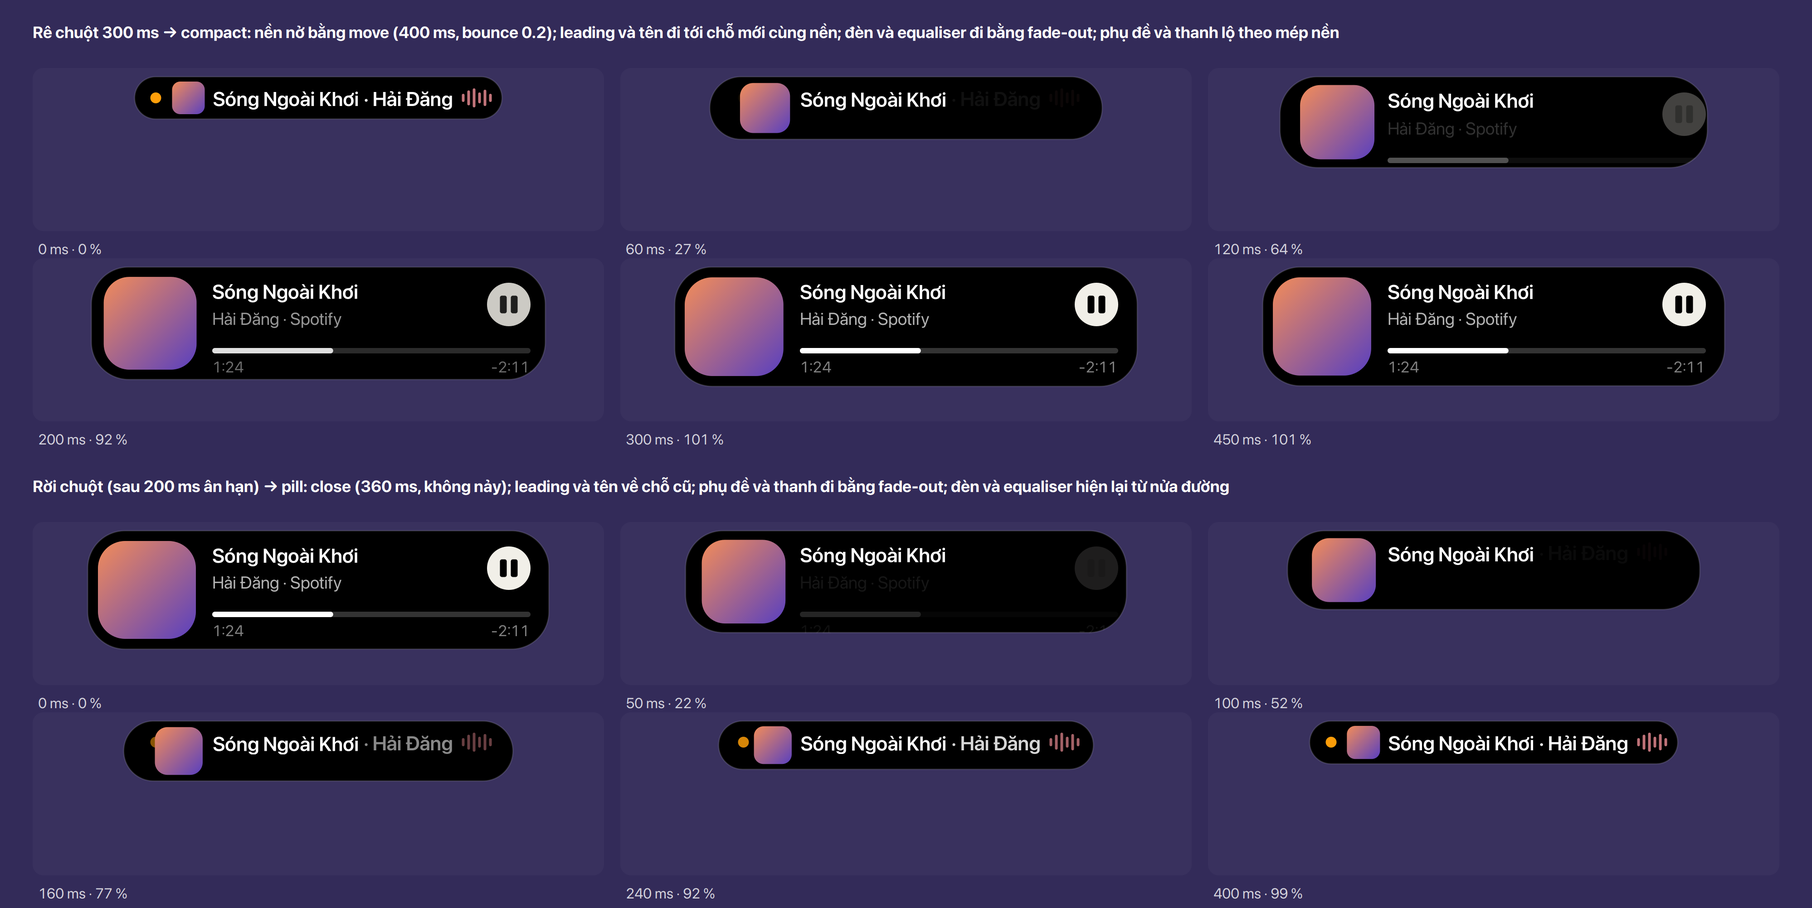
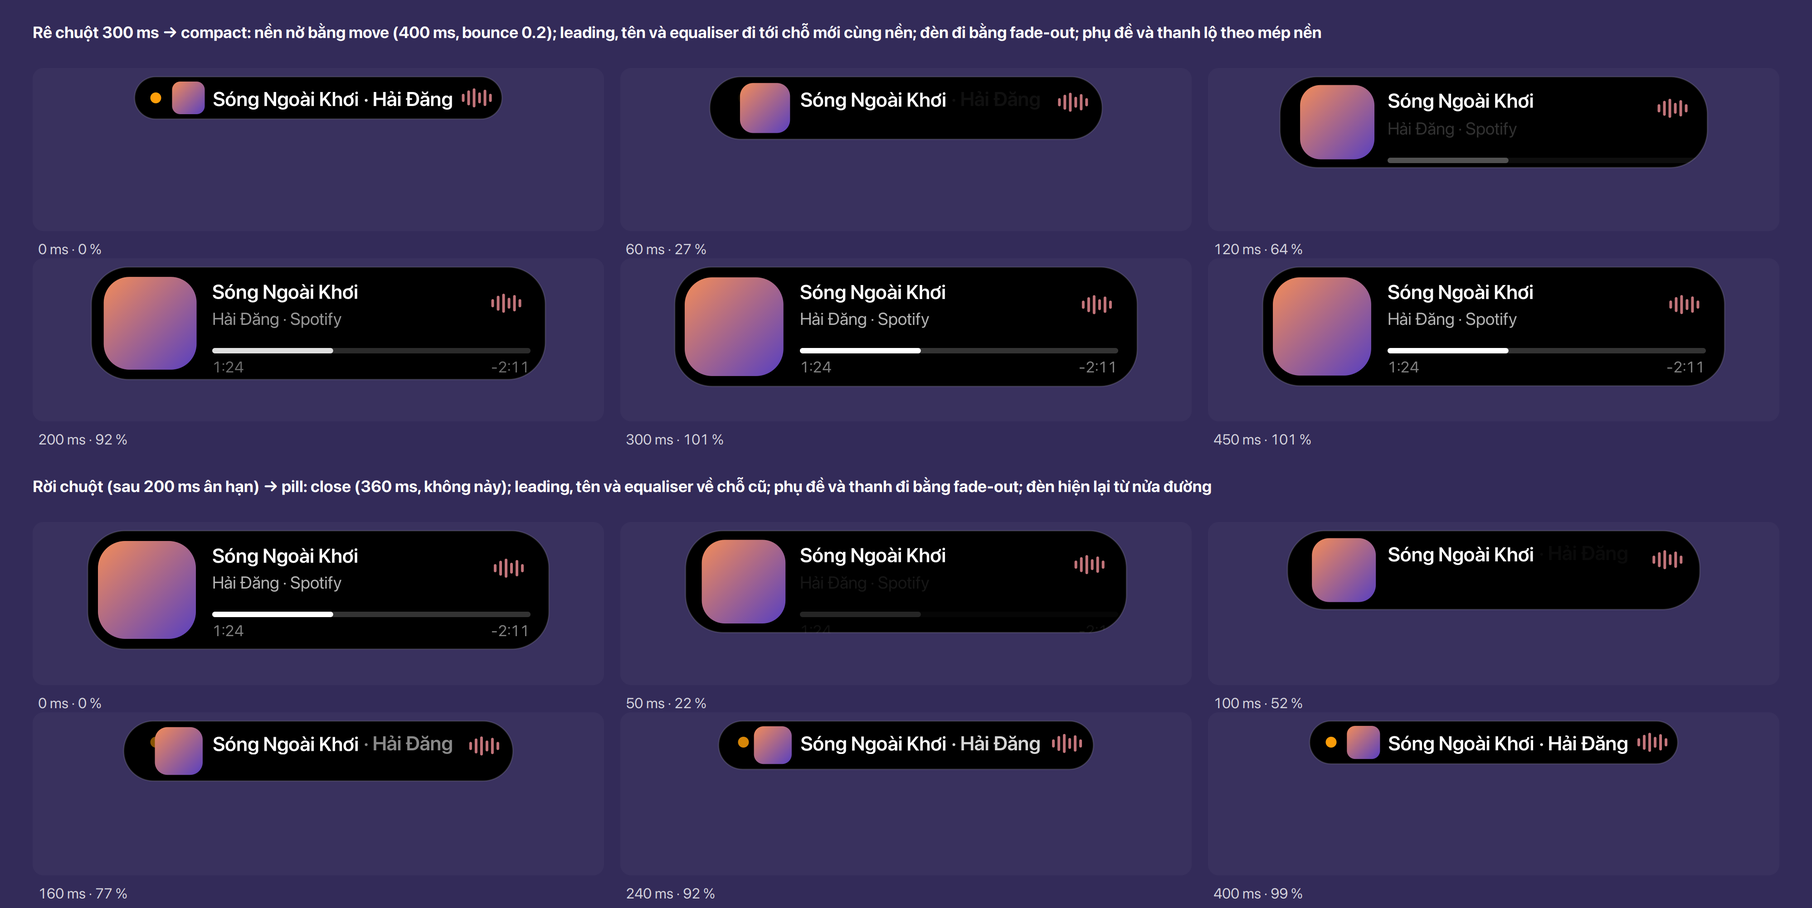
docs(design): redraw the images for the one-button music card
Home: a new "music" sheet (the card at rest, hovered, paused; music as a tile with
its corner equaliser), linked under "Thẻ nhạc và ô nhạc"; states, anatomy, fill,
lists and screen redrawn with the single slot. Motion: the equaliser travels with the
leading and the title (pill ↔ compact, pill ↔ Home card) instead of fading, pictures,
clips and text. Colours/contrast and compact/body: the music card and compact show the
equaliser where ⏮ ⏸ ⏭ / ⏸ were. render-design.sh draws the new sheet.

Refs #258

diff --git a/docs/design/home/render/home.js b/docs/design/home/render/home.js
@@ -1,17 +1,18 @@
 // Home (design/home, decided 2026-11-11, Ethan: H5): one main card over a row of tiles, laid out
 // again at every open and stack change so the tab is never empty and never scrolls.
 //   states  — four moments at 1920: music, Claude asks, nothing running, missed and a full row
+//   music   — the music card's one button (rest, hovered, paused) and the music tile's corner
 //   anatomy — 1920 with every measure, then 2560 and 3440
 //   fill    — how the row fills: activities, then the glance, then wide tiles
 //   lists   — the Missed tile and +K open a list in place of the card and the row
 //   screen  — screen recording in Home: the main card, or a tile
-// gjs -m home.js out.png <states|anatomy|fill|lists|screen>
+// gjs -m home.js out.png <states|music|anatomy|fill|lists|screen>
 import Pango from 'gi://Pango';
 import PangoCairo from 'gi://PangoCairo';
 import Rsvg from 'gi://Rsvg?version=2.0';
 import GLib from 'gi://GLib';
 import cairo from 'cairo';
-import {SCALE as SC, C, drawBu, icon as gicon, SAMPLE} from '../../render/lib.js';
+import {SCALE as SC, C, drawBu, drawEq, EQ, icon as gicon, SAMPLE} from '../../render/lib.js';
 const [out, MODE] = ARGV;
 // Buoy's colour icons (weather, daypart), the ones the extension ships
 const COLOUR = GLib.build_filenamev([GLib.path_get_dirname(GLib.filename_from_uri(import.meta.url)[0]),
@@ -109,6 +110,23 @@ function panel(x, y, EW, EH, title, {bellDot = false} = {}) {
 }
 
 // ---- the main card: fill-1, r 16; low under 160, tall from 160 ----------------------------------------
+// The music card's one button (design/home "Thẻ nhạc và ô nhạc", 2026-11-13): play / pause as the
+// compact's ⏸ slot — the equaliser at rest, the cream ⏸ (white under the pointer) when hovered;
+// paused, the bars low and ▶. SLOT: {hover, paused} for the drawings of that section.
+let SLOT = {hover: false, paused: false};
+const LOW = [4, 6, 7, 5, 6, 3];
+function slot(cx, cy) {
+    if (SLOT.hover) {
+        cr.newPath(); cr.setSourceRGB(1, 1, 1); cr.arc(cx, cy, 16, 0, 2 * Math.PI); cr.fill();
+        icon(SLOT.paused ? 'play-fill' : 'pause-fill', cx - 8, cy - 8, 16, C.BLACK);
+        return;
+    }
+    if (!SLOT.paused) {
+        drawEq(cr, cx - EQ.width / 2, cy);
+        return;
+    }
+    LOW.forEach((h, i) => fill([...EQ.rgb, 1], cx - EQ.width / 2 + i * (EQ.w + EQ.gap), cy - h / 2, 2, h, 1));
+}
 function heroMusic(x, y, w, h) {
     fill([1, 1, 1, C.FILL1], x, y, w, h, 16);
     const s = Math.min(h - 16, ART_MAX), ay = y + (h - s) / 2;
@@ -116,7 +134,7 @@ function heroMusic(x, y, w, h) {
     const tx = x + 8 + s + 12, x1 = x + w - 14;
     if (h < TALL) {   // low: the buttons top right, the bar at the foot of the text column
         text(SAMPLE.track, tx, y + 12, {wt: 600}); text(SAMPLE.sub, tx, y + 32, {sz: SUB, a: C.FG_MUTED});
-        [['forward-step-fill', 0], ['pause-fill', 1], ['backward-step-fill', 0]].forEach(([n, m], i) => round(x + w - 28 - i * 40, y + 28, n, m));
+        slot(x + w - 28, y + 28);
         bar(tx, y + h - 34, x1 - tx);
         text('1:24', tx, y + h - 26, {sz: SUB, a: C.FG_SUBTLE}); text('-2:11', x1, y + h - 26, {sz: SUB, a: C.FG_SUBTLE, right: true});
     } else {          // tall: the title larger, the bar, the buttons centred under it
@@ -125,7 +143,7 @@ function heroMusic(x, y, w, h) {
         bar(tx, by - 30, x1 - tx);
         text('1:24', tx, by - 22, {sz: SUB, a: C.FG_SUBTLE}); text('-2:11', x1, by - 22, {sz: SUB, a: C.FG_SUBTLE, right: true});
         const mid = (tx + x1) / 2;
-        [['backward-step-fill', 0], ['pause-fill', 1], ['forward-step-fill', 0]].forEach(([n, m], i) => round(mid + (i - 1) * 44, by + 20, n, m));
+        slot(mid, by + 20);
     }
 }
 function heroAsk(x, y, w, h) {
@@ -188,6 +206,9 @@ function small(x, y, w, key, more = 0) {
     const it = ITEMS[key], am = it.amber;
     fill(am ? [...C.AMBER, .16] : [1, 1, 1, C.FILL1], x, y, w, TILE_H, 16);
     lead(x, y, it.ic, am);
+    // the music tile: its equaliser in the top right corner, centred on the leading cell
+    if (key === 'music')
+        drawEq(cr, x + w - 12 - EQ.width, y + 22);
     text(it.val, x + 12, y + 40, {sz: BIG, wt: 600, rgb: am ? C.AMBER : W1});
     text(it.cap, x + 12, y + 68, {sz: SUB, a: C.FG_MUTED, maxW: w - 24});
     if (w >= WIDE) it.det.forEach((d, i) => d && text(d, x + w - 14, y + 44 + i * 18, {sz: SUB, a: C.FG_SUBTLE, right: true}));
@@ -291,6 +312,30 @@ if (MODE === 'lists') {
     note(x1, 50 + EH + 8, ['Hàng 32 một dòng; bấm hàng mở chỗ của nó (thông báo → tab Thông báo, mục Nhỡ khi vắng)', 'và hàng rời danh sách; × xoá hết; ‹ hoặc Esc về Home.']);
     note(x2, 50 + EH + 8, ['Cùng khuôn danh sách; bấm hàng mở tab của activity đó.', 'Dài hơn 5 hàng thì danh sách cuộn, chỉ ở đây.']);
     note(x0, 50 + EH + 8, ['Bị nhỡ đếm cả thông báo chưa xem và việc kết thúc lúc không thấy.']);
+    surf.writeToPNG(out);
+}
+
+// ---- the music card and the music tile -------------------------------------------------------------------
+if (MODE === 'music') {
+    // design/home "Thẻ nhạc và ô nhạc" (2026-11-13): the card's one button and the tile's corner
+    const EW = 560, EH = 280, GX = 40, GY = 84, W = 24 + 2 * EW + GX + 24, H = 50 + 2 * (EH + GY) - 20;
+    const surf = canvas(W, H), G = ['wx', 'up', 'bat'];
+    const cells = [
+        [24, 50, {hover: false, paused: false}, 'music', ['claude'], 'A · Thẻ nhạc lúc nghỉ: equaliser ở chỗ ⏸, không còn ⏮ ⏭',
+            ['Equaliser theo màu bìa, chạy khi Home đang mở; ⏮ ⏭ ở tab Media.', 'Bấm thẻ: tab Media, equaliser đi tới ô ↗ của tab.']],
+        [24 + EW + GX, 50, {hover: true, paused: false}, 'music', ['claude'], 'B · Rê chuột vào ô (hay focus bàn phím): nút ⏸',
+            ['Như các nút chính: kem, trắng dưới con trỏ. Đổi qua lại bằng mờ chéo tại chỗ.', 'Bấm: dừng; nút thành ▶ ngay, không nháy.']],
+        [24, 50 + EH + GY, {hover: false, paused: true}, 'music', ['claude'], 'C · Đang dừng: equaliser thấp; rê chuột thì ▶',
+            ['Các thanh hạ xuống trong 200 ms rồi đứng yên.', '']],
+        [24 + EW + GX, 50 + EH + GY, {hover: false, paused: false}, 'ask', ['music'], 'D · Nhạc là một ô: equaliser ở góc trên phải',
+            ['Khi thẻ chính là việc khác (ở đây: Claude hỏi), nhạc lùi xuống một ô.', 'Equaliser ở góc trên phải, cách mép 12; bấm ô: tab Media, equaliser đi tới ô ↗.']],
+    ];
+    for (const [x, y, st, hero, acts, title, lines] of cells) {
+        SLOT = st;
+        home(x, y, EW, EH, hero, acts, G, title);
+        note(x, y + EH + 8, lines.filter(Boolean));
+    }
+    SLOT = {hover: false, paused: false};
     surf.writeToPNG(out);
 }
 

diff --git a/docs/design/motion/render/motion.js b/docs/design/motion/render/motion.js
@@ -155,28 +155,30 @@ let TITLE_W = 0;
 // The compact is media 88 (design/compact): the art 72 at 8 with bo 20, the text 12 after it, the
 // round button 14 from the right edge, the bar and the times under the text; as wide as the
 // compact's anatomy drawing (340).
-const PILL = {w: 0, h: 32, lead: {x: 28, y: 4, s: 24, r: 6}, title: {x: 58, y: 8, sz: 11}};
-const COMPACT = {w: 340, h: 88, lead: {x: 8, y: 8, s: 72, r: 20}, title: {x: 92, y: 10, sz: 11}};
-const EXP = {w: 560, h: 280, lead: {x: 20, y: 64, s: 88, r: 22}, title: {x: 120, y: 74, sz: 13}};
+// The equaliser is shared too (design/motion, 2026-11-13): its centre in each form — the pill's
+// trailing, the compact's round slot, the Home music card's slot at its top right.
+const PILL = {w: 0, h: 32, lead: {x: 28, y: 4, s: 24, r: 6}, title: {x: 58, y: 8, sz: 11}, get eq() { return {x: this.w - 8 - EQ.width / 2, y: 16}; }};
+const COMPACT = {w: 340, h: 88, lead: {x: 8, y: 8, s: 72, r: 20}, title: {x: 92, y: 10, sz: 11}, eq: {x: 340 - 14 - 16, y: 28}};
+const EXP = {w: 560, h: 280, lead: {x: 20, y: 64, s: 88, r: 22}, title: {x: 120, y: 74, sz: 13}, eq: {x: 560 - 12 - 28, y: 56 + 28}};
 function shared(cx, y, from, to, x, a = 1) {
     const at = (f, k) => ({x: cx - f.w / 2 + f[k].x, y: y + f[k].y});
     const l0 = at(from, 'lead'), l1 = at(to, 'lead'), t0 = at(from, 'title'), t1 = at(to, 'title');
     art(lerp(l0.x, l1.x, x), lerp(l0.y, l1.y, x), lerp(from.lead.s, to.lead.s, x), a, lerp(from.lead.r, to.lead.r, x));
     text(SAMPLE.track, lerp(t0.x, t1.x, x), lerp(t0.y, t1.y, x), {sz: lerp(from.title.sz, to.title.sz, x), wt: 600, a});
+    const e0 = at(from, 'eq'), e1 = at(to, 'eq');     // same size everywhere: it only moves
+    drawEq(cr, lerp(e0.x, e1.x, x) - EQ.width / 2, lerp(e0.y, e1.y, x), a);
 }
-function pillRest(cx, y, a) { // the light, " · artist" and the equaliser: only the pill has them
+function pillRest(cx, y, a) { // the light and " · artist": only the pill has them
     if (a <= 0) return;
     const x = cx - PILL.w / 2;
     fill([...C.AMBER, a], x + 12, y + 12, 8, 8, 4);
     text(BY, x + PILL.title.x + TITLE_W, y + PILL.title.y, {sz: 11, wt: 600, a});
-    drawEq(cr, x + PILL.w - 8 - EQ.width, y + 16, a);
 }
-function compactRest(cx, y, a) { // the subtitle, the button, the bar, the times: only the compact has them
+function compactRest(cx, y, a) { // the subtitle, the bar, the times: only the compact has them (its ⏸
+    // shows only under the pointer, in the equaliser's place: design/compact "Nhạc")
     if (a <= 0) return;
     const x = cx - COMPACT.w / 2, tx = x + COMPACT.title.x, xr = x + COMPACT.w - 14, by = y + 60;
     text(SAMPLE.sub, tx, y + 30, {sz: 9.5, a: a * C.FG_MUTED});
-    cr.newPath(); cr.arc(xr - 16, y + 28, 16, 0, 2 * Math.PI); cr.setSourceRGBA(...C.CREAM, a); cr.fill();
-    icon(cr, 'pause-fill', xr - 24, y + 20, 16, C.BLACK, a);
     fill([1, 1, 1, C.FILL3 * a], tx, by, xr - tx, 4, 2);
     fill([1, 1, 1, a], tx, by, (xr - tx) * .38, 4, 2);
     text('1:24', tx, by + 7, {sz: 8.5, a: .5 * a});
@@ -202,9 +204,9 @@ function morph(fx, fy, cw, from, to, x, ms, rest, travel = true) {
 function compact() {
     const CW = 420, W = 24 + 3 * CW + 2 * 12 + 24, H = 2 * (34 + 2 * 140) + 40, surf = canvas(W, H);
     const rows = [
-        {t: 'Rê chuột 300 ms → compact: nền nở bằng move (400 ms, bounce 0.2); leading và tên đi tới chỗ mới cùng nền; đèn và equaliser đi bằng fade-out; phụ đề và thanh lộ theo mép nền',
+        {t: 'Rê chuột 300 ms → compact: nền nở bằng move (400 ms, bounce 0.2); leading, tên và equaliser đi tới chỗ mới cùng nền; đèn đi bằng fade-out; phụ đề và thanh lộ theo mép nền',
             spring: SPRING.move, from: PILL, to: COMPACT, ms: [0, 60, 120, 200, 300, 450], rest: {from: pillRest, to: compactRest}},
-        {t: 'Rời chuột (sau 200 ms ân hạn) → pill: close (360 ms, không nảy); leading và tên về chỗ cũ; phụ đề và thanh đi bằng fade-out; đèn và equaliser hiện lại từ nửa đường',
+        {t: 'Rời chuột (sau 200 ms ân hạn) → pill: close (360 ms, không nảy); leading, tên và equaliser về chỗ cũ; phụ đề và thanh đi bằng fade-out; đèn hiện lại từ nửa đường',
             spring: SPRING.close, from: COMPACT, to: PILL, ms: [0, 50, 100, 160, 240, 400], rest: {from: compactRest, to: pillRest}},
     ];
     rows.forEach((r, ri) => {
@@ -240,9 +242,9 @@ function expanded() {
     const CW = 760, W = 24 + 3 * CW + 2 * 12 + 24, H = 2 * (40 + 2 * 330) + 40, surf = canvas(W, H);
     const SIDE = 131, GAP = 8;
     const rows = [
-        {t: 'Bấm → expanded: nền nở bằng open (500 ms, bounce 0.25); ảnh và tên của pill đi tới thẻ chính của Home; thanh tab và phần còn lại lộ theo mép nền; hai pill phụ trượt vào giữa bằng move và mờ ở nửa sau',
+        {t: 'Bấm → expanded: nền nở bằng open (500 ms, bounce 0.25); ảnh, tên và equaliser của pill đi tới thẻ chính của Home; thanh tab và phần còn lại lộ theo mép nền; hai pill phụ trượt vào giữa bằng move và mờ ở nửa sau',
             spring: SPRING.open, from: PILL, to: EXP, ms: [0, 80, 160, 260, 400, 640], open: true, rest: {from: pillRest, to: REST.expanded}},
-        {t: 'Thu về: nền thu bằng close (360 ms, không nảy); ảnh và tên về pill; phần còn lại đi bằng fade-out; đèn và equaliser hiện lại; pill phụ trượt ra và hiện lại',
+        {t: 'Thu về: nền thu bằng close (360 ms, không nảy); ảnh, tên và equaliser về pill; phần còn lại đi bằng fade-out; đèn hiện lại; pill phụ trượt ra và hiện lại',
             spring: SPRING.close, from: EXP, to: PILL, ms: [0, 60, 120, 200, 300, 480], open: false, rest: {from: REST.expanded, to: pillRest}},
     ];
     rows.forEach((r, ri) => {

diff --git a/docs/design/compact/render/body.js b/docs/design/compact/render/body.js
@@ -3,7 +3,7 @@
 import Pango from 'gi://Pango';
 import PangoCairo from 'gi://PangoCairo';
 import cairo from 'cairo';
-import {SCALE as SC, taskState, icon, C, GREY, drawBu, SAMPLE} from '../../render/lib.js';
+import {SCALE as SC, taskState, icon, C, GREY, drawBu, drawEq, EQ, SAMPLE} from '../../render/lib.js';
 const R = 28, PAD = 14, LEAD = 40, IND = 12, PW = 340, TX = PAD + LEAD + IND;   // text column at 66
 const W = 1120, colX = [20, 520];
 const surf = new cairo.ImageSurface(cairo.Format.ARGB32, W * SC, 760 * SC);
@@ -24,12 +24,13 @@ const snap = h => 56 + Math.ceil(Math.max(0, h - 56) / 32) * 32;
 function panel(x, y, h) { rr(x + .5, y + .5, PW - 1, h - 1, R - .5); cr.setSourceRGB(0, 0, 0); cr.fillPreserve(); cr.setSourceRGBA(1, 1, 1, .12); cr.setLineWidth(1); cr.stroke(); }
 function waste(x, y, h) { cr.setSourceRGBA(1, .35, .35, .18); cr.rectangle(x + PAD, y + 56, LEAD, h - 56 - 10); cr.fill(); }
 function art(x, y, s, r = 10, c = [[.95, .55, .35], [.35, .25, .75]]) { const g = new cairo.LinearGradient(x, y, x + s, y + s); g.addColorStopRGB(0, ...c[0]); g.addColorStopRGB(1, ...c[1]); cr.setSource(g); rr(x, y, s, s, r); cr.fill(); }
-function head(x, y, t1, t2, c, btn = '⏸') { if (c === 'bu') drawBu(cr, 'busy', x + PAD, y + 8, 4); else art(x + PAD, y + 8, LEAD, 10, c); text(t1, x + TX, y + 9, 11, 600, W1); text(t2, x + TX, y + 29, 9.5, 400, G);
+function head(x, y, t1, t2, c, btn = 'eq') { if (c === 'bu') drawBu(cr, 'busy', x + PAD, y + 8, 4); else art(x + PAD, y + 8, LEAD, 10, c); text(t1, x + TX, y + 9, 11, 600, W1); text(t2, x + TX, y + 29, 9.5, 400, G);
   roundBtn(x + PW - PAD - 16, y + R, btn); }
 // the head's button (design/icons): its main action (⏸ pause-fill, ■ stop-fill) is fill-inverse,
+// music's at rest is its equaliser (design/compact "Nhạc");
 // cream with a black icon; × (xmark) is fill-2 with a white one; the icon 16 in the middle
 const GLYPH = {'⏸': 'pause-fill', '■': 'stop-fill', '×': 'xmark'};
-function roundBtn(cx, cy, btn) { const main = btn !== '×';
+function roundBtn(cx, cy, btn) { if (btn === 'eq') { drawEq(cr, cx - EQ.width / 2, cy); return; } const main = btn !== '×';
   cr.newPath(); if (main) cr.setSourceRGB(...C.CREAM); else cr.setSourceRGBA(1, 1, 1, C.FILL2); cr.arc(cx, cy, 16, 0, 2 * Math.PI); cr.fill();
   icon(cr, GLYPH[btn], cx - 8, cy - 8, 16, main ? C.BLACK : W1); }
 function bar(x, y, x0, x1) { cr.setSourceRGBA(1, 1, 1, C.FILL3); rr(x0, y, x1 - x0, 4, 2); cr.fill(); cr.setSourceRGB(1, 1, 1); rr(x0, y, (x1 - x0) * .38, 4, 2); cr.fill();
@@ -48,7 +49,7 @@ label('Hiện tại — thân thụt theo cột chữ (đỏ = chỗ trống)', 
 { const h = 88, x = colX[1]; label('…hoặc ảnh bìa 72 chiếm cả hai hàng', x, y - 16); panel(x, y, h);
   art(x + 8, y + 8, 72, 20); const tx = x + 8 + 72 + 12;   // inset 8 → r 28 − 8 = 20, concentric
   text(SAMPLE.track, tx, y + 10, 11, 600, W1); text(SAMPLE.sub, tx, y + 30, 9.5, 400, G);
-  roundBtn(x + PW - PAD - 16, y + R, '⏸');
+  roundBtn(x + PW - PAD - 16, y + R, 'eq');
   bar(x, y + 60, tx, x + PW - PAD - 6); y += h + 30; }
 // 2) rows: Claude's task list (2026-11-11), on the 16 rhythm: 56 + 8 + 3 × 16 + 8 = 120
 { const h = 120, rows = [['done', 'Edit shapes.js', '12s'], ['doing', 'Run pnpm test', '4s'], ['todo', 'Update the docs', '']];

diff --git a/docs/design/colours/render/contrast.js b/docs/design/colours/render/contrast.js
@@ -4,7 +4,7 @@
 import Pango from 'gi://Pango';
 import PangoCairo from 'gi://PangoCairo';
 import cairo from 'cairo';
-import {SCALE as SC, C, drawBu, icon, SAMPLE} from '../../render/lib.js';
+import {SCALE as SC, C, EQ, drawBu, drawEq, icon, SAMPLE} from '../../render/lib.js';
 const out = ARGV[0];
 
 const W = 16 + 2 * (560 + 16), H = 350;
@@ -28,7 +28,7 @@ const fill = (a, x, y, w, h, r) => { cr.newPath(); rr(x, y, w, h, r); cr.setSour
 const ratio = a => { const v = a * 255 / 255, c = v <= 0.04045 ? v / 12.92 : ((v + 0.055) / 1.055) ** 2.4; return ((c + 0.05) / 0.05).toFixed(1); };
 
 // Home at 1920 (560 × 280): borders on the panel, fg-muted on the tabs and captions, fg-subtle on the
-// times and details, fg-disabled on ⏭ when the player has no next track
+// times and details; fg-disabled is ⏭ when the player has no next track (the Media tab's, not drawn)
 function round(cx, cy, name, {main = false, a = 1} = {}) {
     cr.newPath(); if (main) cr.setSourceRGB(...C.CREAM); else cr.setSourceRGBA(1, 1, 1, C.FILL2);
     cr.arc(cx, cy, 16, 0, 2 * Math.PI); cr.fill(); icon(cr, name, cx - 8, cy - 8, 16, main ? C.BLACK : C.WHITE, a);
@@ -47,7 +47,7 @@ function home(X, title, {border, subtle, disabled}) {
     const cx = X + 12, cy = Y + 56, cw = PW - 24;
     fill(C.FILL1, cx, cy, cw, 104, 16); fill(C.FILL2, cx + 8, cy + 8, 88, 88, 8);
     text(SAMPLE.track, cx + 108, cy + 12, {sz: 11, wt: 600}); text(SAMPLE.sub, cx + 108, cy + 32, {sz: 9.35, a: C.FG_MUTED});
-    round(cx + cw - 28, cy + 28, 'forward-step-fill', {a: disabled}); round(cx + cw - 68, cy + 28, 'pause-fill', {main: true}); round(cx + cw - 108, cy + 28, 'backward-step-fill');
+    drawEq(cr, cx + cw - 28 - EQ.width / 2, cy + 28);   // play / pause at rest (design/home "Thẻ nhạc")
     fill(C.FILL3, cx + 108, cy + 70, cw - 122, 4, 2); fill(1, cx + 108, cy + 70, (cw - 122) * .45, 4, 2);
     text('1:24', cx + 108, cy + 78, {sz: 9.35, a: subtle}); text('-1:41', cx + cw - 14, cy + 78, {sz: 9.35, a: subtle, right: true});
     // the row: two tiles and a wide one with a detail column in fg-subtle
@@ -60,7 +60,7 @@ function home(X, title, {border, subtle, disabled}) {
         if (n === 2) { text('25 phút nữa', tx + w - 14, ty + 44, {sz: 9.35, a: subtle, right: true}); text('phòng 3', tx + w - 14, ty + 62, {sz: 9.35, a: subtle, right: true}); }
         return tx + w + 8;
     }, cx);
-    text(`viền ${Math.round(border * 100)} % · chữ phụ ${Math.round(subtle * 100)} % (${ratio(subtle)}:1) · chữ tắt ${Math.round(disabled * 100)} % (nút ⏭ khi không có bài sau)`,
+    text(`viền ${Math.round(border * 100)} % · chữ phụ ${Math.round(subtle * 100)} % (${ratio(subtle)}:1) · chữ tắt ${Math.round(disabled * 100)} % (⏭ ở tab Media khi không có bài sau)`,
         X, Y + PH + 10, {sz: 7.5, a: .7});
 }
 home(16, 'Thường', {border: .12, subtle: .5, disabled: .28});

diff --git a/docs/design/motion/index.vi.md b/docs/design/motion/index.vi.md
@@ -28,8 +28,8 @@ và cách từng chuyển diễn ra; số dùng chung ở [Bảng số](../token
 - **Phần chung đi tới chỗ mới**, như HIG (Live Activities): "animating existing elements to their new
   positions rather than removing and animating them back in". Phần có ở cả hai dạng (leading, tên)
   đi cùng nền bằng cùng lò xo: leading 24 của pill lớn lên và tới chỗ leading của compact (40 ở phần
-  đầu 56, ảnh bìa 72 ở nhạc 88), tên tới chỗ tên. Phần chỉ có ở một dạng (đèn, equaliser, phụ đề,
-  thanh, giờ, nút) vẫn như nay: phần đi thì
+  đầu 56, ảnh bìa 72 ở nhạc 88), tên tới chỗ tên. Phần chỉ có ở một dạng (đèn, phụ đề,
+  thanh, giờ) vẫn như nay: phần đi thì
   `fade-out`, phần đến thì lộ theo mép nền. Thay luật "nội dung không dời, không đổi cỡ trong lúc
   morph" của SPEC §5 (2026-11-02), luật đó đặt ra vì chữ của expanded từng hiện đủ rộng khi nền còn
   nhỏ; mép nền vẫn cắt mọi thứ nên lỗi đó không quay lại. Chỉ dời bằng `translation` và phóng bằng
@@ -73,11 +73,11 @@ nguyên.
 **Pill ↔ compact** (hình vẽ compact nhạc 88). Rê chuột 300 ms: nền nở bằng `move` từ chính pill
 (đỉnh đứng yên, nở xuống và sang hai bên quanh tâm; cao 32 → 88, bo theo chiều cao 16 → 28). Leading
 24 lớn lên thành ảnh bìa 72 (× 3, bo 6 → 20) và đi từ (28, 4) tới (8, 8); tên đi tới chỗ tên, 12 sau
-ảnh bìa; cả hai cùng nền. Đèn, " · Hải Đăng" và equaliser đi bằng `fade-out` ngay; phụ đề, nút,
-thanh và giờ đứng sẵn ở chỗ cuối, lộ theo mép nền, độ mờ đi từ 0 ở nửa đường tới đủ ở cuối. Ảnh bìa
+ảnh bìa; equaliser đi tới chỗ nút tròn; cả ba cùng nền. Đèn và " · Hải Đăng" đi bằng `fade-out` ngay;
+phụ đề, thanh và giờ đứng sẵn ở chỗ cuối, lộ theo mép nền, độ mờ đi từ 0 ở nửa đường tới đủ ở cuối. Ảnh bìa
 luôn cách mép trên và dưới của nền ít nhất 4 nên không bị cắt. Pill bên cạnh mờ tại chỗ
-(`fade-out`). Rời chuột: đợi 200 ms, rồi `close`; ảnh bìa và tên đi về chỗ cũ, phụ đề, nút, thanh
-và giờ `fade-out`, đèn và equaliser `fade-in` từ nửa đường. **Đề xuất**
+(`fade-out`). Rời chuột: đợi 200 ms, rồi `close`; ảnh bìa, tên và equaliser đi về chỗ cũ, phụ đề, thanh
+và giờ `fade-out`, đèn `fade-in` từ nửa đường. **Đề xuất**
 
 ![Pill thành expanded, hai pill phụ gộp vào; rồi thu về](images/expanded.vi.png)
 

diff --git a/docs/design/home/index.vi.md b/docs/design/home/index.vi.md
@@ -106,6 +106,8 @@ chính lấy phần còn lại: không cuộn, không chỗ trống.
 
 ## Thẻ nhạc và ô nhạc
 
+![Thẻ nhạc lúc nghỉ, rê chuột, đang dừng; nhạc là một ô với equaliser ở góc](images/music.vi.png)
+
 - **Thẻ nhạc (thẻ chính): bỏ ⏮ ⏭, chỉ còn ⏸ / ▶ làm như ô ⏸ của compact**: lúc nghỉ là equaliser
   (chạy, hay thấp khi dừng), rê chuột hay focus bàn phím thì nút kem ⏸ / ▶; ⏮ ⏭ ở tab Media. Bấm thẻ
   mở tab Media: equaliser đi tới ô ↗ của tab, ảnh bìa và tên tới chỗ của chúng (Chuyển động, "Phần
